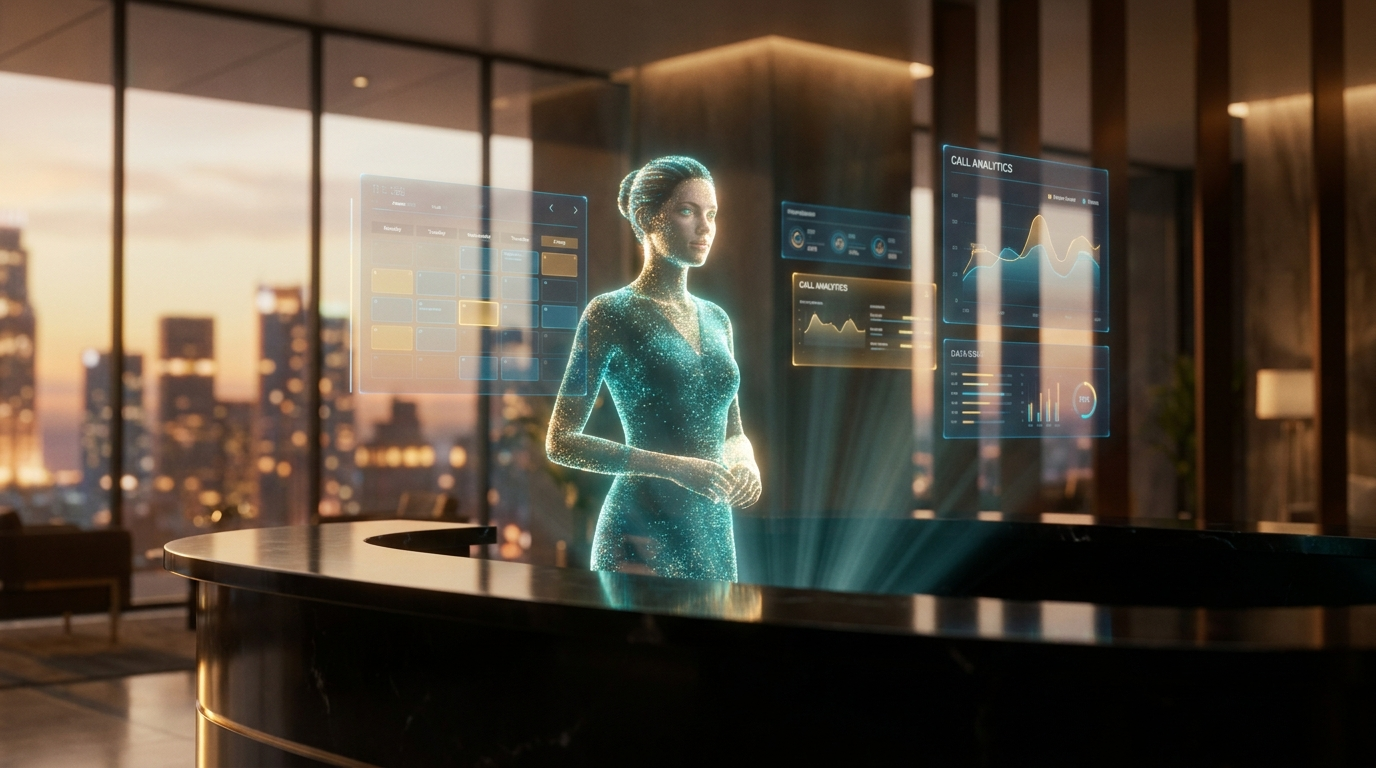
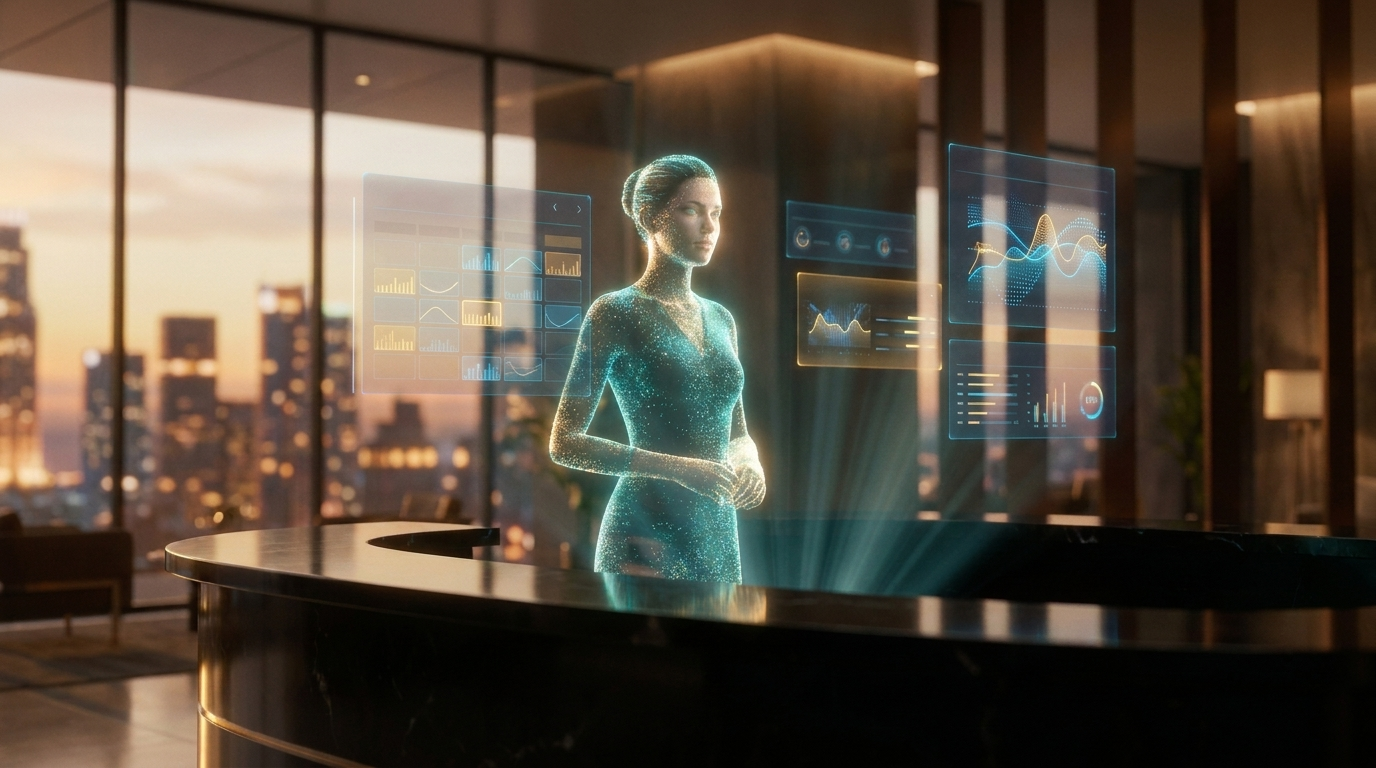
HERMES engine surfaced in health + chat widget; text-free hero image

diff --git a/components/ChatWidget.tsx b/components/ChatWidget.tsx
@@ -15,6 +15,7 @@ const GREETING: Msg = {
 
 export default function ChatWidget({ tall = false }: { tall?: boolean }) {
   const [messages, setMessages] = useState<Msg[]>([GREETING]);
+  const [engine, setEngine] = useState("HERMES");
   const [input, setInput] = useState("");
   const [busy, setBusy] = useState(false);
   const [voiceOn, setVoiceOn] = useState(false);
@@ -27,6 +28,13 @@ export default function ChatWidget({ tall = false }: { tall?: boolean }) {
   useEffect(() => {
     scrollRef.current?.scrollTo({ top: scrollRef.current.scrollHeight, behavior: "smooth" });
   }, [messages, busy]);
+
+  useEffect(() => {
+    fetch("/api/health")
+      .then((r) => r.json())
+      .then((d) => setEngine(`HERMES · ${d.primaryBrain ?? "agent core"}`))
+      .catch(() => {});
+  }, []);
 
   function speak(text: string) {
     if (!voiceOn || typeof window === "undefined" || !window.speechSynthesis) return;
@@ -122,7 +130,7 @@ export default function ChatWidget({ tall = false }: { tall?: boolean }) {
           </div>
           <div>
             <div className="text-sm font-semibold">AVA · AI Receptionist</div>
-            <div className="text-xs text-teal-glow">Online — answers in &lt;2s</div>
+            <div className="text-xs text-teal-glow">Online — powered by {engine}</div>
           </div>
         </div>
         <div className="flex items-center gap-2">

diff --git a/app/api/health/route.ts b/app/api/health/route.ts
@@ -8,7 +8,9 @@ export async function GET() {
     ok: true,
     platform: "FrontDesk Agents",
     domain: "www.frontdeskagents.com",
+    engine: "HERMES",
     brains,
+    primaryBrain: brains[0] ?? "deterministic core",
     llmBrain: brains.length > 0,
     bland: blandConfigured(),
     time: new Date().toISOString(),